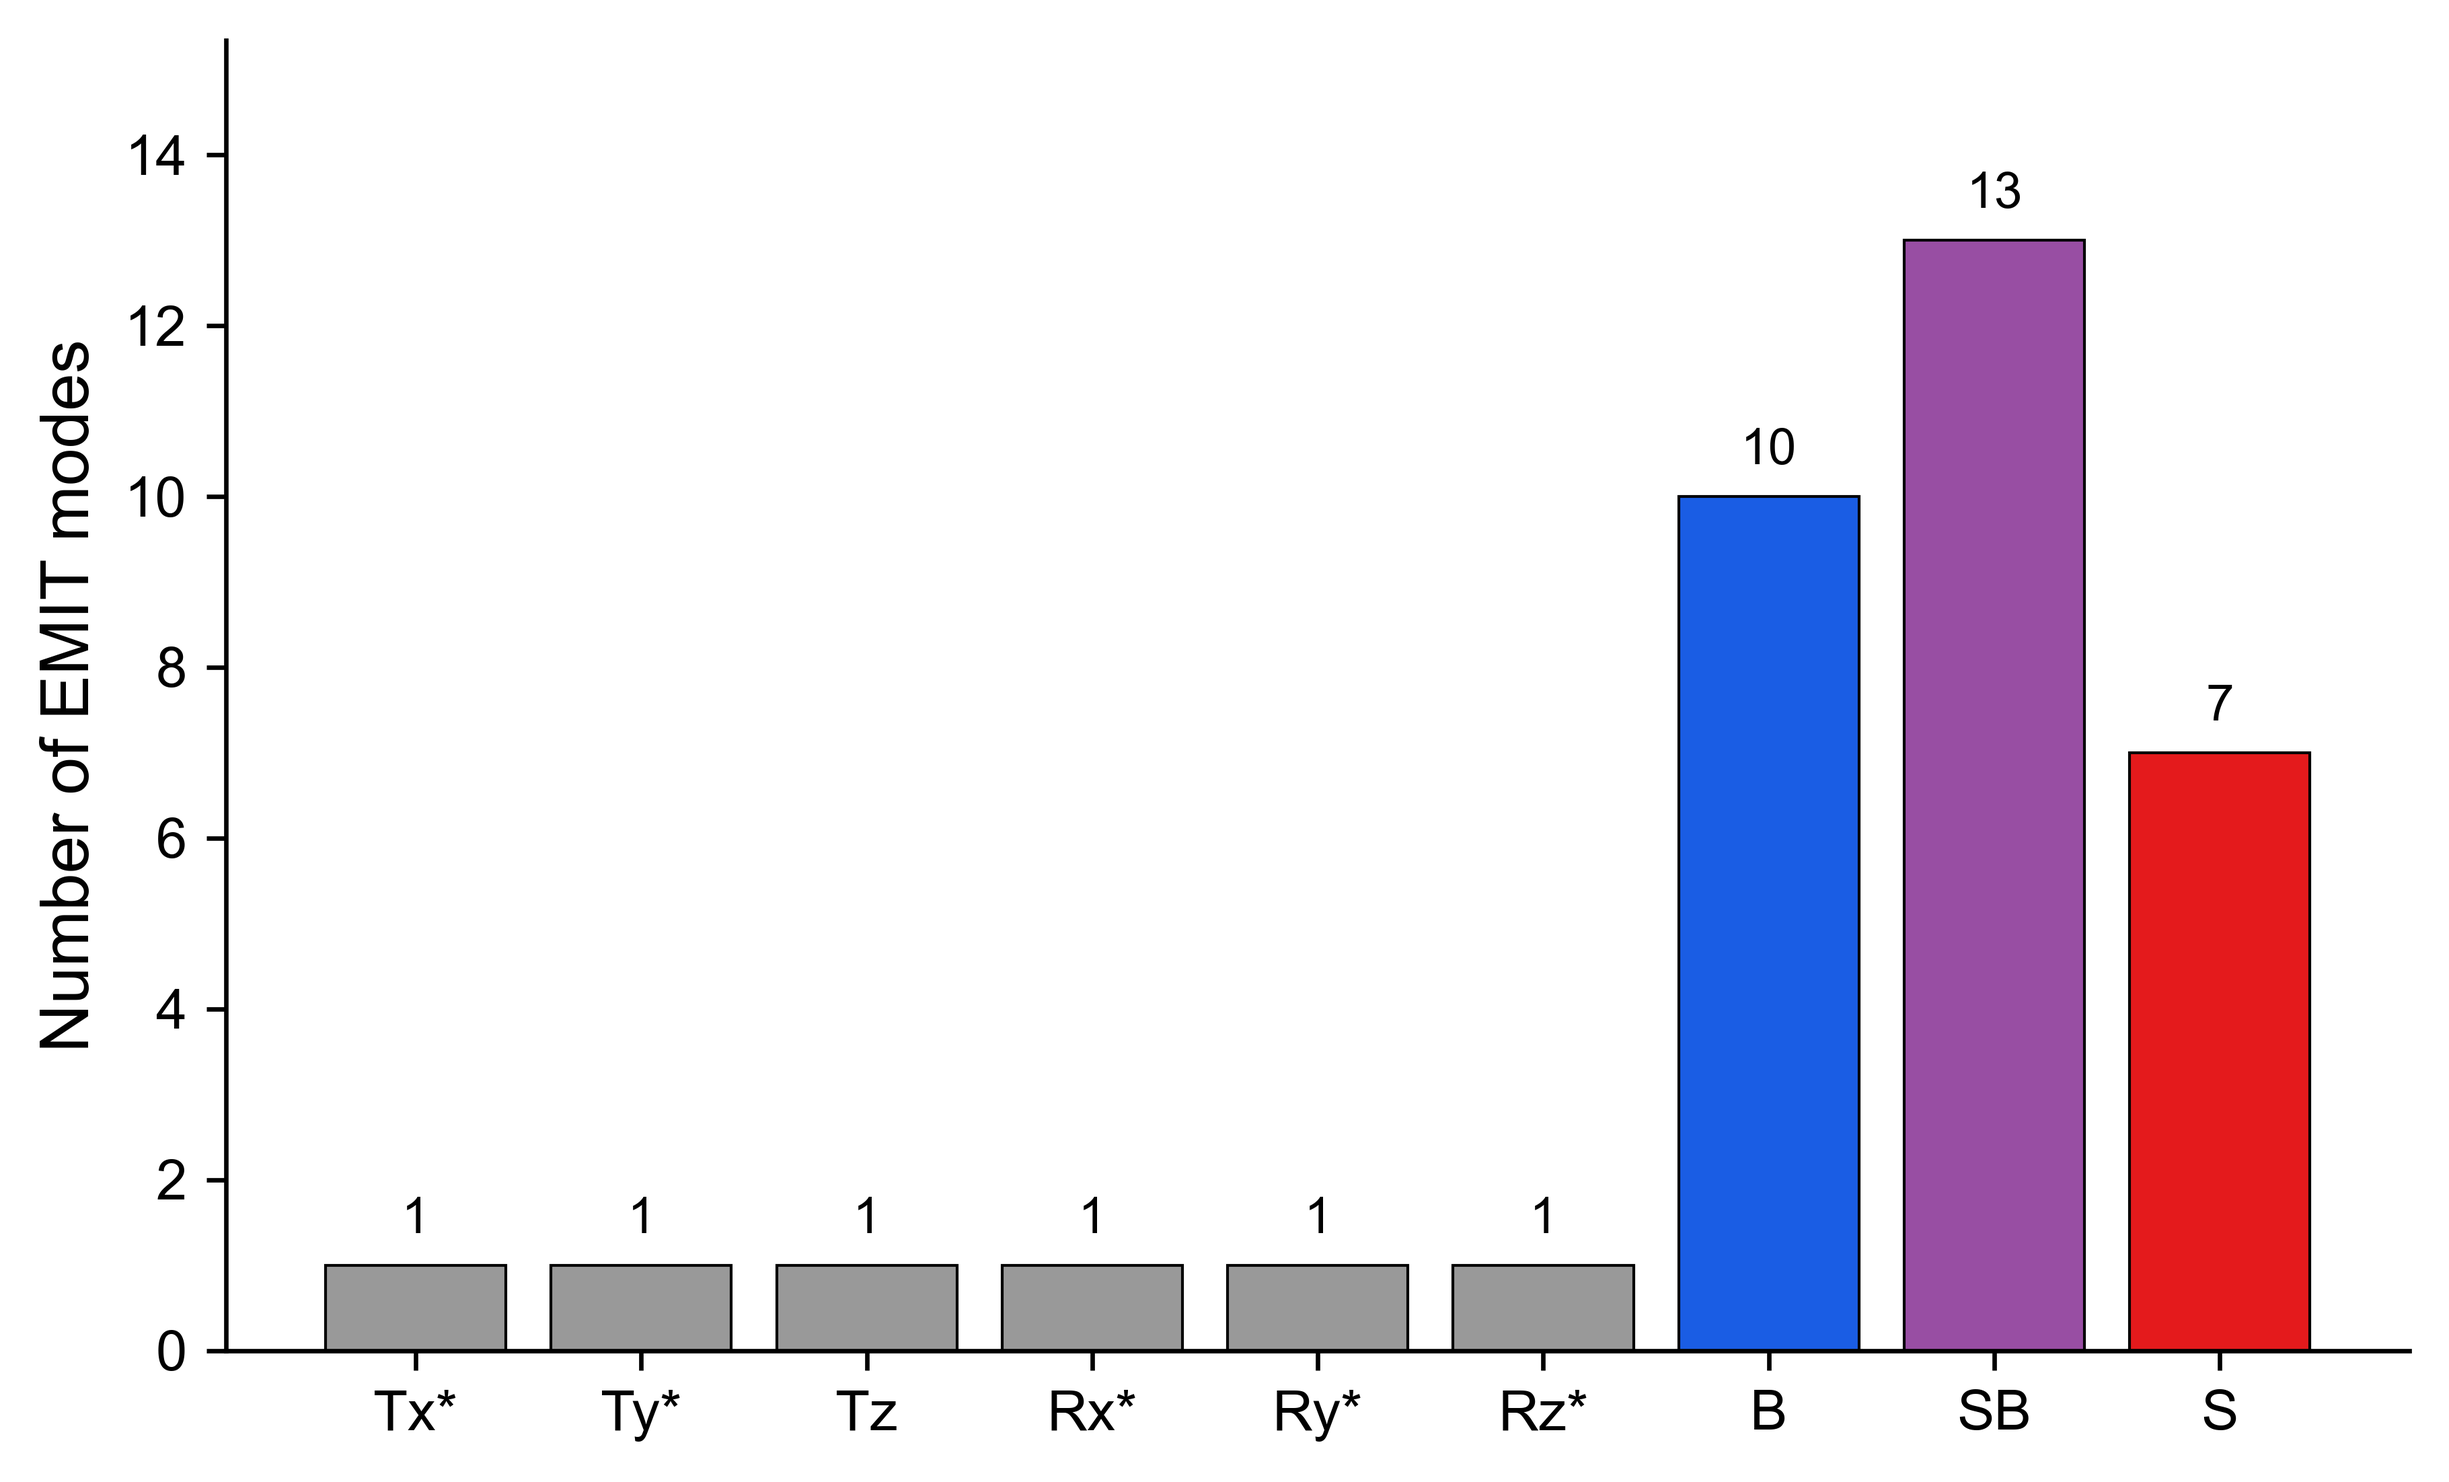
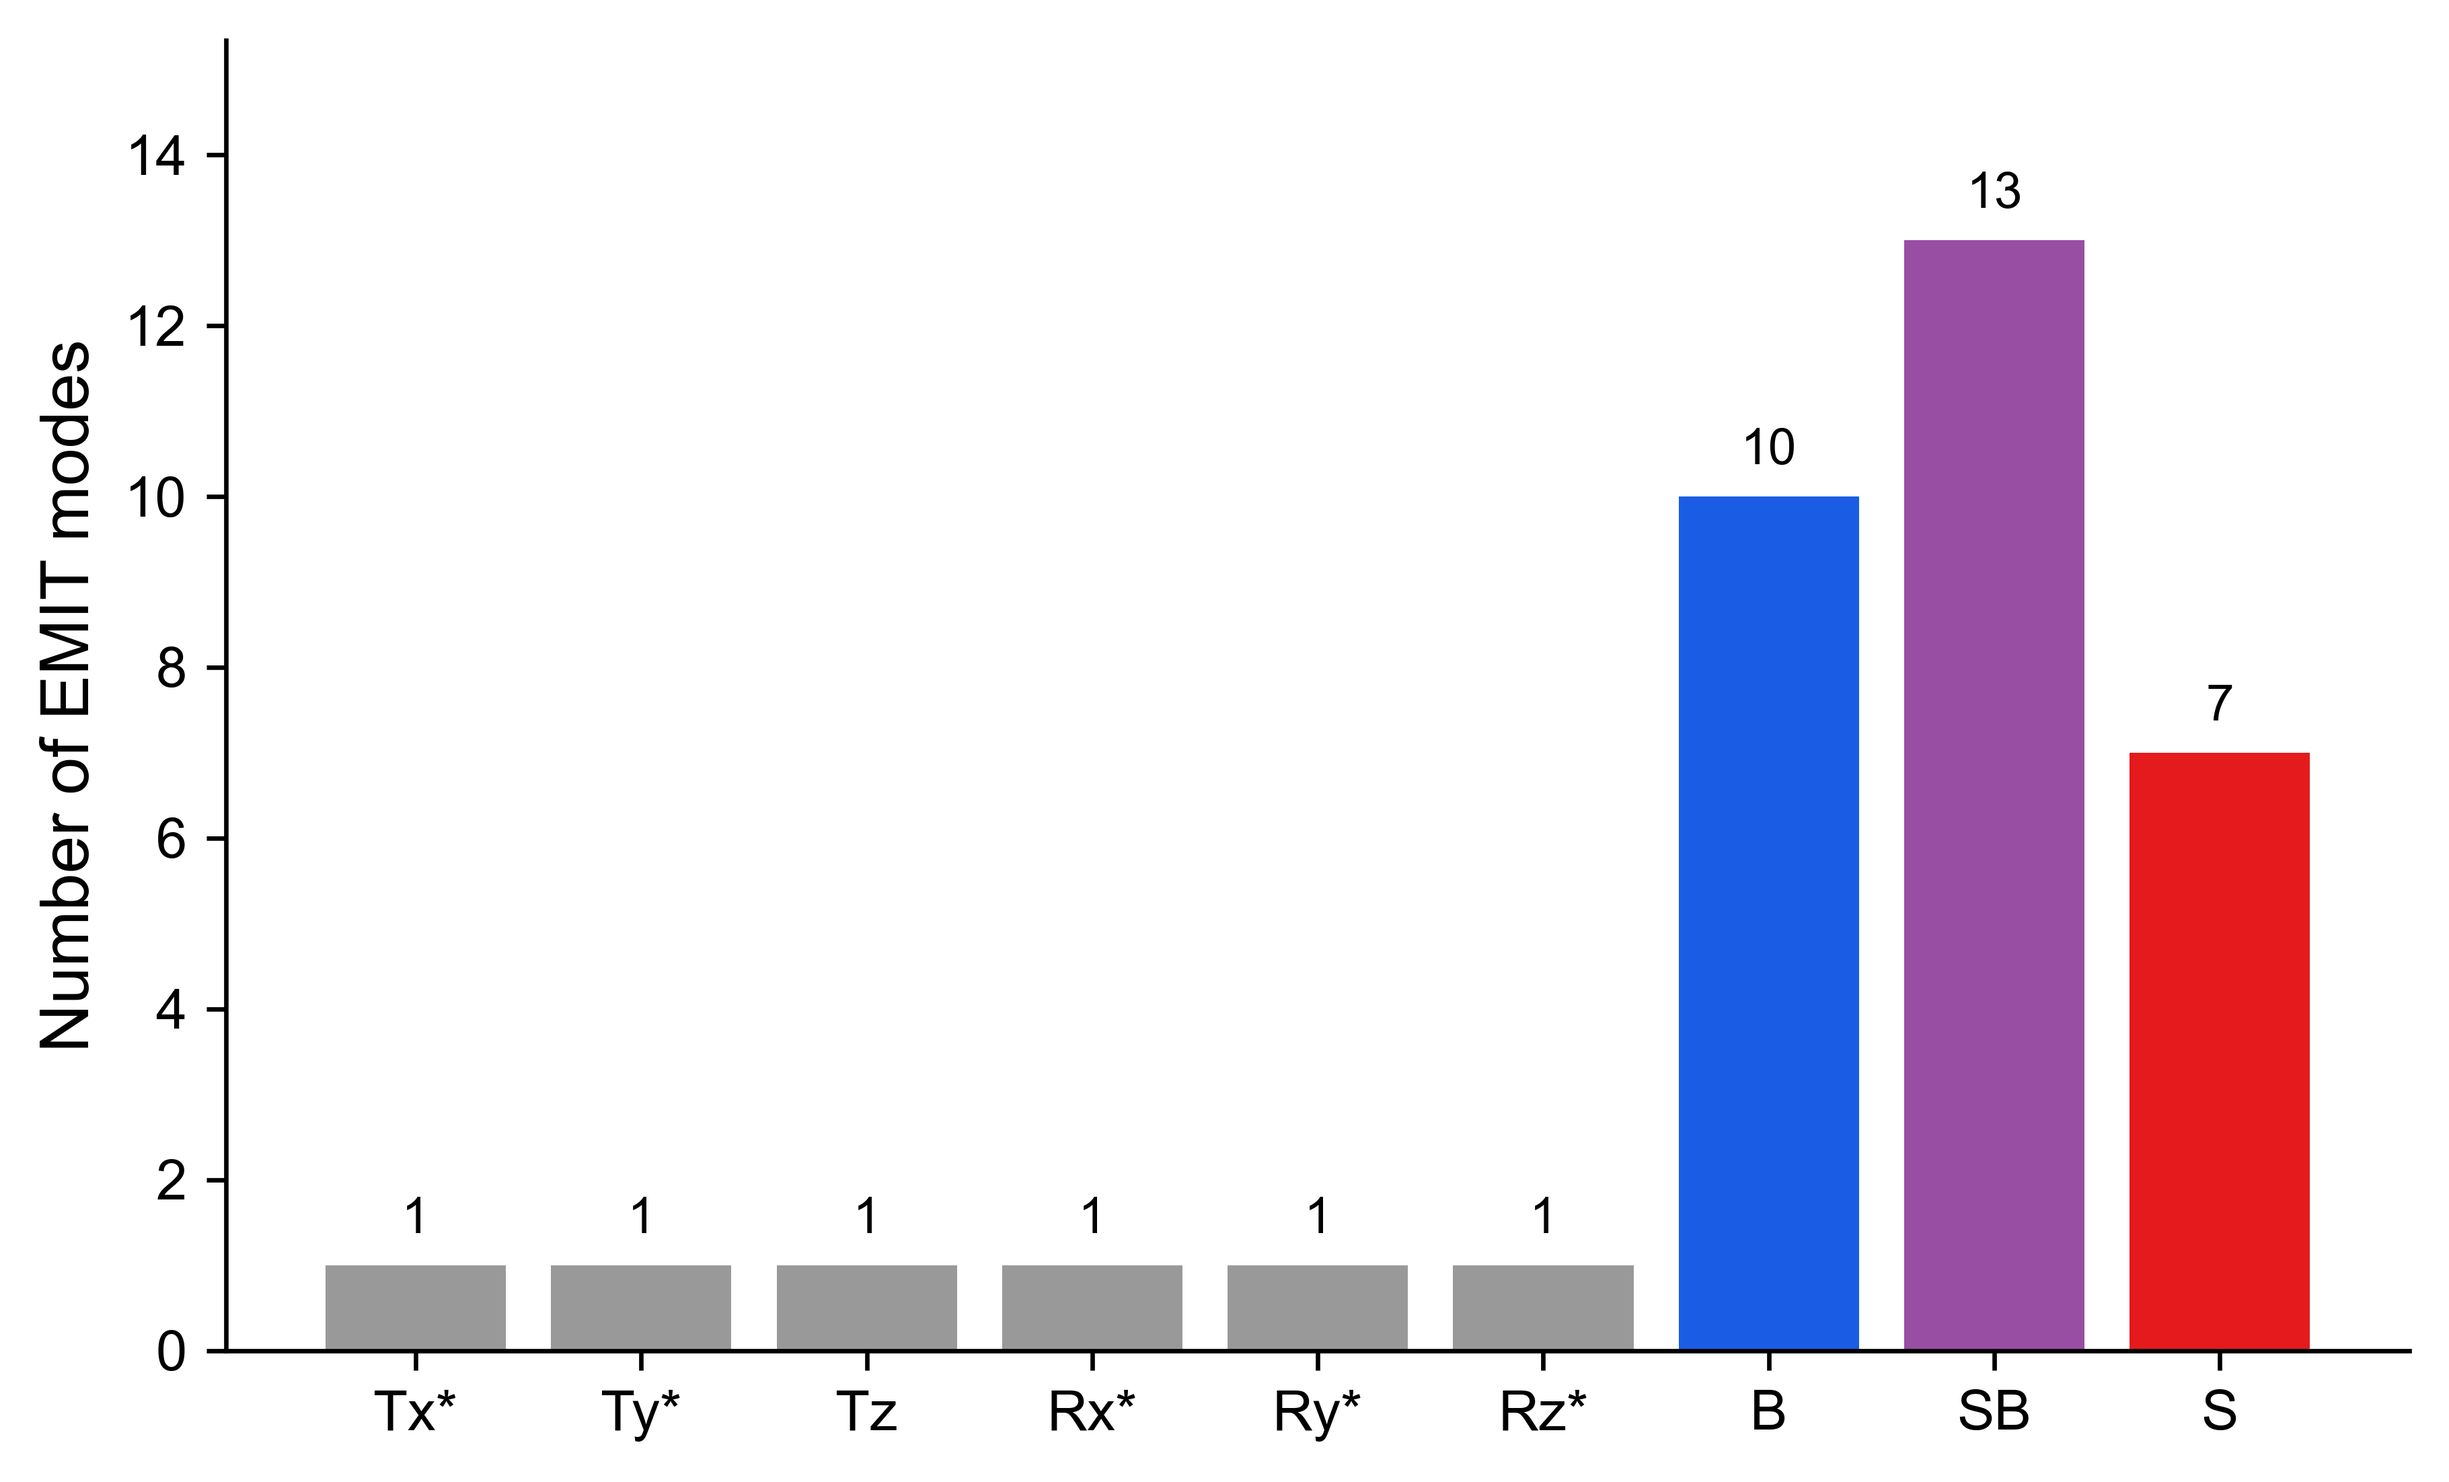
Remove bar borders from fig:benzeneemitcounts

diff --git a/src/figures.py b/src/figures.py
@@ -1197,7 +1197,7 @@ def plot_benzene_emit_counts(
 
     fig, ax = plt.subplots(figsize=(6.2, 3.8))
     x = np.arange(len(present))
-    ax.bar(x, bar_counts, color=bar_colors, edgecolor="black", linewidth=0.5)
+    ax.bar(x, bar_counts, color=bar_colors)
     ax.set_xticks(x)
     ax.set_xticklabels(present)  # matches canonical_order left-to-right
     ax.set_ylabel("Number of EMIT modes")
